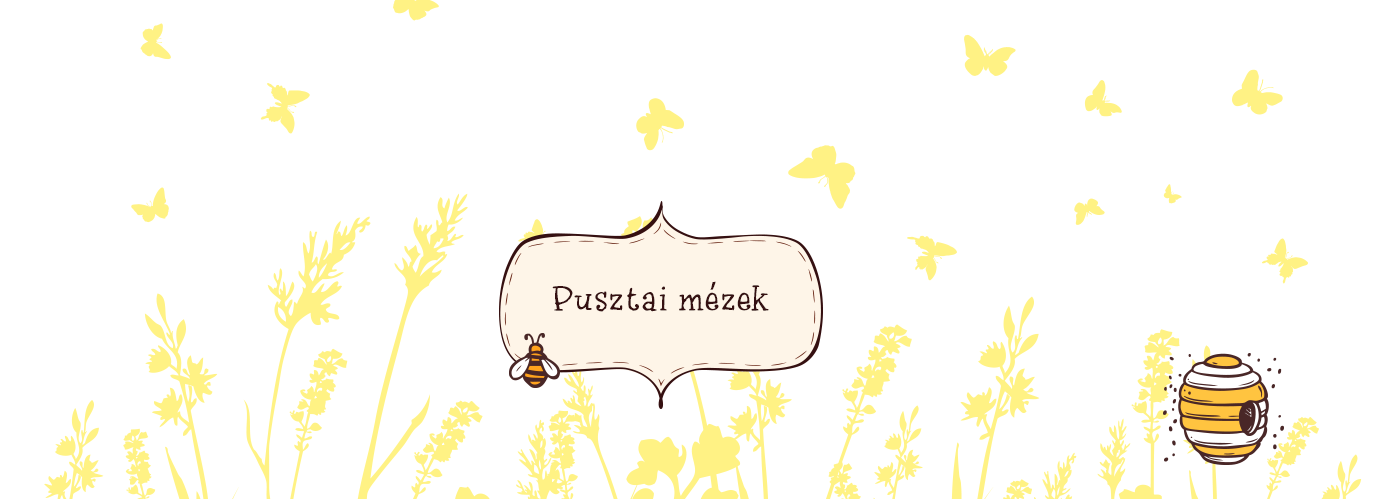
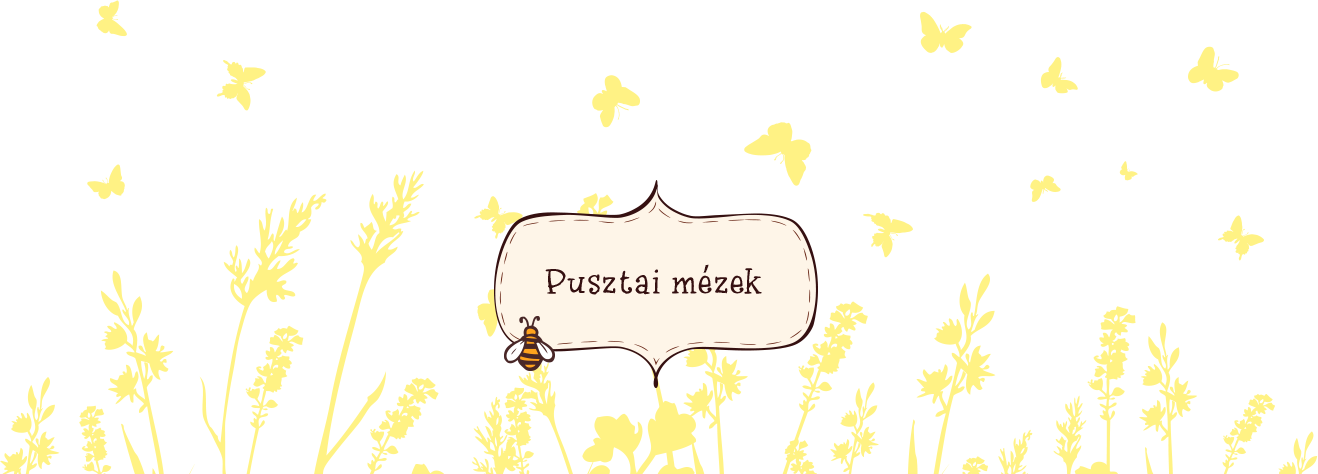
menu

diff --git a/styles/style.css b/styles/style.css
@@ -7,42 +7,62 @@ html {
   box-sizing: inherit;
 }
 
-.header {
-  background: #ff9d34;
-  background-image: url(../images/img_lepkek.png);
-  background-size: cover;
-  background-position: center center;
-  height: 500px;
-  xxxheight: 100vh;
-  font-family: 'Open Sans' Helvetica, Arial;
-}
 
 html {
   font-size: 62.5%;
 }
+
 body {
   font: 1.6rem/1.4 'Libre Baskerville', serif;
 }
+
 h1, h2, h3, h4, h5, h6 {
   font-family: 'Open Sans', arial, sans-serif;
 }
 
-header h1 {
-  text-align: center;
+header {
+  background: #ff9d34;
   margin: 0;
+  background-image: url(../images/img_lepkek.png);
+  background-size: cover;
+  background-position: center center;
+  height: 60vh;
 }
 
-header ul {
+
+header img {
+  padding: 20px;
+}
+
+nav {
+	background-color: rgba(206, 73, 0, 0.6);
+  font-family: 'Open Sans';
+  text-transform: uppercase;
   text-align: center;
+	margin: 0;
+  position: fixed; top: 0; left: 0;
+  z-index:999;
+	width: 100%;
+}
+
+
+header nav ul {
   list-style: none;
-  text-decoration: none;
-  color: #fff;
-  padding: 0;
   margin: 0;
   border-top: 1px;
 }
 
-header li {
+header nav li {
+  font-family: 'Open Sans', Helvetica, Arial;
   border-bottom: 2px solid #fff;
-
+  text-decoration: none;
 }
+
+header a {
+   display: block;
+   padding: .5em;
+   text-decoration: none;
+   text-transform: uppercase;
+   text-align: center;
+   color: #fff;
+ }

diff --git a/index.html b/index.html
@@ -10,23 +10,21 @@
 </head>
 
 <body>
-  <header class="header">
-    <h1><img src="images/pusztai_logo.png" alt="Pusztai mézek">
-    </h1>
-    <input type="checkbox" id="hambi" checked/>
-    <label for="hambi" id="menuToggle">☰</label>
-
+  <header>
     <nav id="menuContainer">
+      <img src="images/pusztai_logo.png" alt="Pusztai mézek">
       <ul>
-        <li><a href="">MÉZEINK 1</a></li>
-        <li><a href="">SZÖRPÖK</a></li>
-        <li><a href="">SÜTEMÉNYEK</a></li>
-        <li><a href="">GALÉRIA</a></li>
-        <li><a href="">KAPCSOLAT</a></li>
+        <li><a href="">Mézeink</a></li>
+        <li><a href="">Szörpök</a></li>
+        <li><a href="">Sütemények</a></li>
+        <li><a href="">Galéria</a></li>
+        <li><a href="">Kapcsolat</a></li>
       </ul>
     </nav>
   </header>
 
   <main>
   </main>
-  </html>
+  <script src="scripts/script.js"></script>
+</body>
+</html>

diff --git a/scripts/script.js b/scripts/script.js
@@ -1,0 +1,18 @@
+var menu = document.getElementById('menuContainer');
+var menuGomb = document.getElementById('menuToggle');
+
+function menuNyitoCsuko () {
+  menu.classList.toggle('hide');
+}
+
+menuGomb.addEventListener('click', menuNyitoCsuko);
+
+if (window.innerWidth < 500) {
+  menuNyitoCsuko();
+}
+
+function scrollKiIro () {
+  console.log(document.body.scrollTop);
+}
+
+window.addEventListener('scroll', scrollKiIro)
